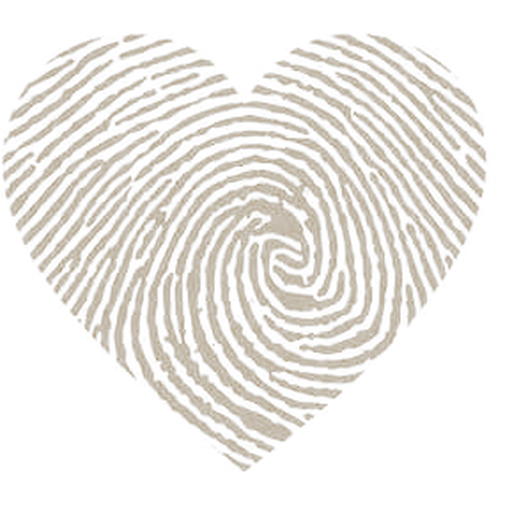
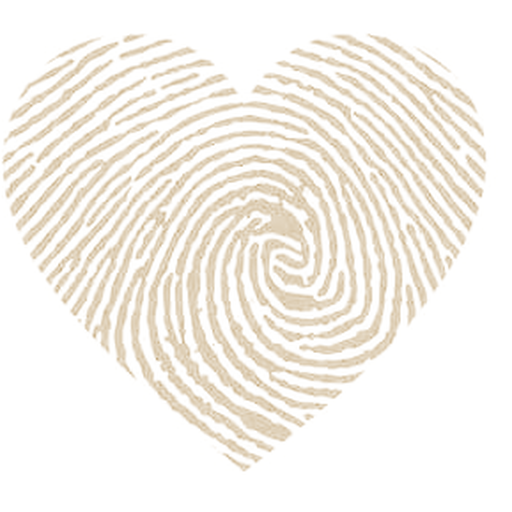
Hero: título em Jost e coração dourado
Claude-Session: https://claude.ai/code/session_01SCt7Jm2wZuprmoecXy61Ez

Changed region(s): [[0.0, 0.0625, 0.9688, 0.9375]]

diff --git a/public/index.html b/public/index.html
@@ -30,6 +30,15 @@
   unicode-range: U+0000-00FF,U+0131,U+0152-0153,U+02BB-02BC,U+02C6,U+02DA,U+02DC,U+0304,U+0308,U+0329,U+2000-206F,U+20AC,U+2122,U+2191,U+2193,U+2212,U+2215,U+FEFF,U+FFFD;
 }
 
+@font-face {
+  font-family: 'Jost';
+  font-style: normal;
+  font-weight: 100 900;
+  font-display: swap;
+  src: url(/fonts/jost.woff2) format('woff2-variations'), url(/fonts/jost.woff2) format('woff2');
+  unicode-range: U+0000-00FF,U+0131,U+0152-0153,U+02BB-02BC,U+02C6,U+02DA,U+02DC,U+0304,U+0308,U+0329,U+2000-206F,U+20AC,U+2122,U+2191,U+2193,U+2212,U+2215,U+FEFF,U+FFFD;
+}
+
 /* ---------- Tokens ---------- */
 :root {
   --bg: #FAF6EF;
@@ -207,7 +216,7 @@ a { color: inherit; }
   left: 50%;
   width: 560px;
   transform: translate(-50%, -50%);
-  opacity: 0.34;
+  opacity: 0.5; /* coração dourado */
   pointer-events: none;
   /* a imagem vem cortada em cima: esbate a borda de cima para não se ver uma linha reta */
   -webkit-mask-image: linear-gradient(to bottom, transparent 0, #000 16%);
@@ -215,6 +224,14 @@ a { color: inherit; }
 }
 
 .hero .hero-inner { position: relative; z-index: 1; }
+
+/* título do hero no tipo de letra Jost (como em "Aniversários") */
+.hero h1 {
+  font-family: 'Jost', var(--font-body);
+  font-weight: 600;
+  letter-spacing: 0.02em;
+  line-height: 1.12;
+}
 
 .hero-inner { position: relative; max-width: 680px; }
 
@@ -413,7 +430,7 @@ textarea { resize: vertical; }
 }
 
 @media (max-width: 600px) {
-  .hero-fundo { top: 54%; width: 92%; opacity: 0.32; }
+  .hero-fundo { top: 54%; width: 92%; opacity: 0.45; }
 }
 
 @media (max-width: 760px) {
